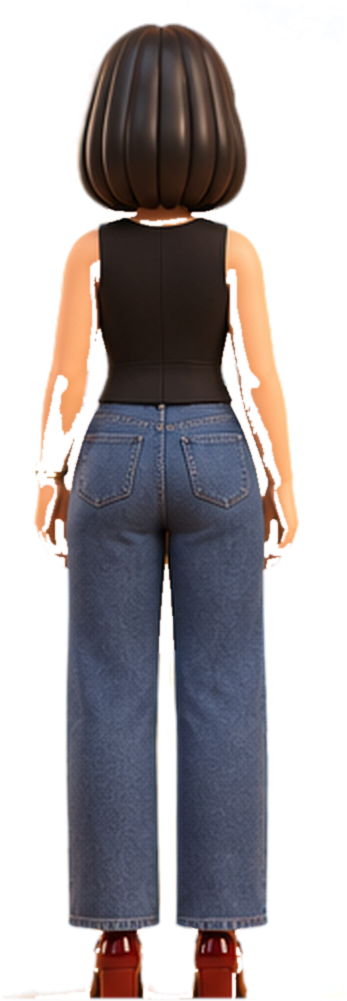
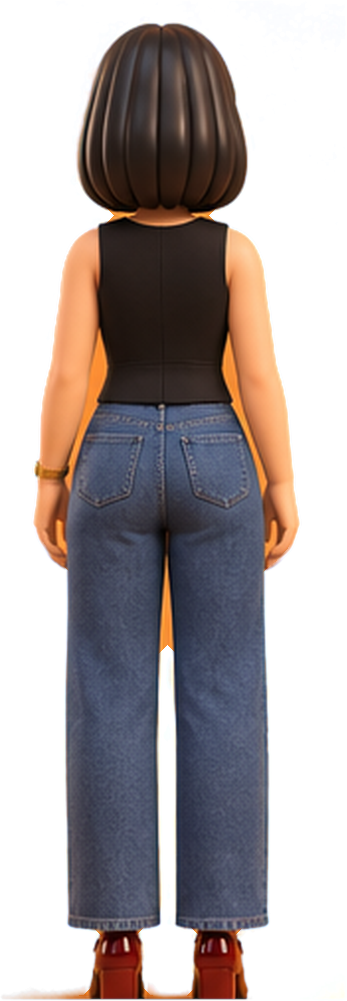
Vidéo 03 : image de départ sur fond orange (détourage propre)
Claude-Session: https://claude.ai/code/session_01PNR9uKd2Bb424Mq2JDk583

diff --git a/serie-papa/videos/v03_maman/depart.html b/serie-papa/videos/v03_maman/depart.html
@@ -2,7 +2,7 @@
 body{margin:0}.f{position:relative;width:1920px;height:1080px;overflow:hidden}svg{position:absolute;inset:0}img{position:absolute}
 </style></head><body>
 <!-- P1 (test): Sophie from behind at the stove, night kitchen -->
-<div class="f" id="p1" style="background:#1F2A4F"><svg viewBox="0 0 1920 1080" fill="none" stroke="#fff" stroke-width="6" stroke-linecap="round" stroke-linejoin="round">
+<div class="f" id="p1" style="background:#FC8F30"><svg viewBox="0 0 1920 1080" fill="none" stroke="#fff" stroke-width="6" stroke-linecap="round" stroke-linejoin="round">
 <line x1="0" y1="930" x2="1920" y2="930"/>
 <!-- counter + stove behind her -->
 <path d="M560 930 V640 H1360 V930"/><line x1="540" y1="640" x2="1380" y2="640"/>
